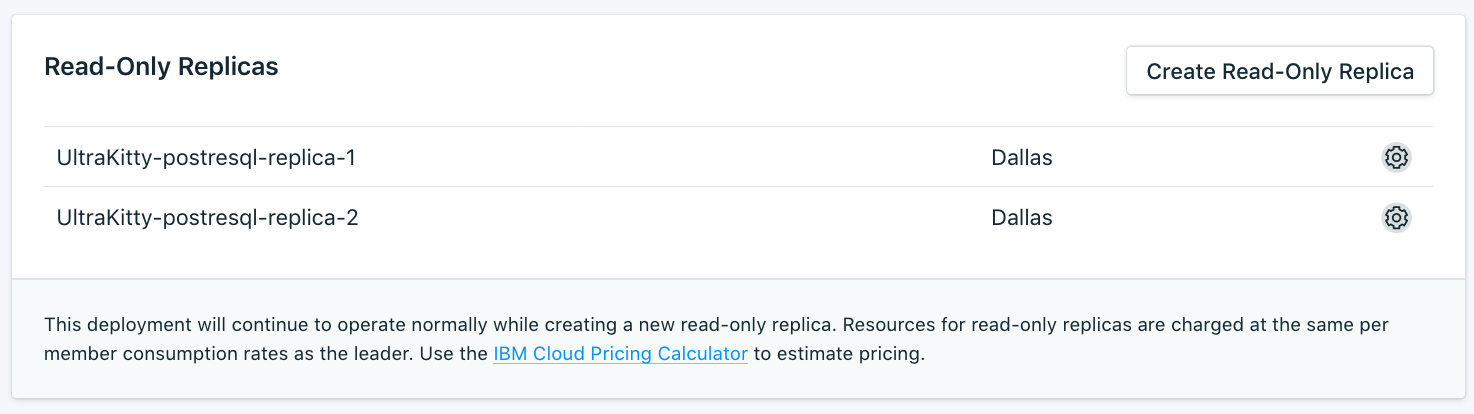
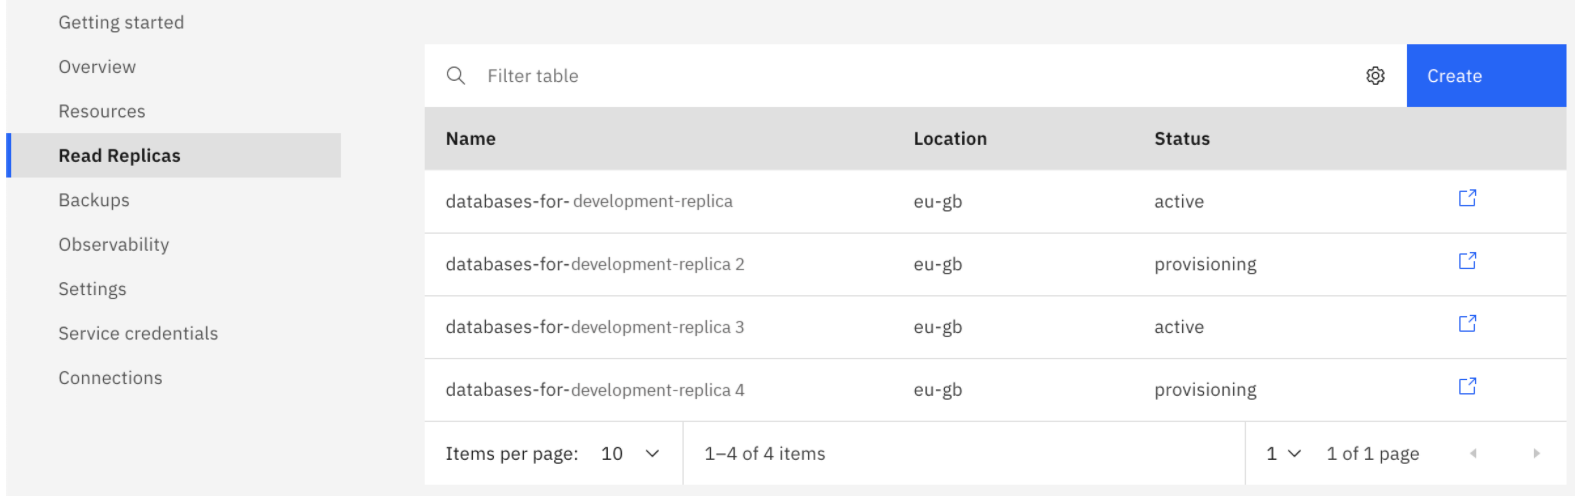
Settings UI updates

diff --git a/learn-dashboard-overview.md b/learn-dashboard-overview.md
@@ -1,8 +1,8 @@
 ---
 
 Copyright:
-  years: 2018, 2020
-lastupdated: "2020-04-23"
+  years: 2018, 2021
+lastupdated: "2021-02-04"
 
 keywords: deployment, crn, task, gui, api endpoint
 
@@ -20,78 +20,52 @@ subcollection: databases-for-postgresql
 # The UI - Dashboard Overview
 {: #dashboard-overview}
 
-The _Overview_ page shows you information about your {{site.data.keyword.databases-for-postgresql_full}} database. The overview includes essential identifying information.
-
-## Deployment Details
-
-The _Deployment Details_ panel shows details of your service.
-
+The _Overview_ page shows you information about your {{site.data.keyword.databases-for-postgresql_full}} deployment. The overview includes essential identifying information.
+## Overview
 ### Type
-
-The type of database that is offered by the service, and the database version that your service uses. In this case, it is `PostgreSQL`.
-
+The type of database that is offered by the service, and the database version that your service uses.
 ### ID
+The ID is a [CRN (Cloud Resource Name)](/docs/account?topic=account-crn) which uniquely identifies the database deployment. The CRN is used to refer to the database in the API and can be used with the CLI.The _Overview_ pane shows details of your service.
+### Recent Tasks
+Every time that you make administrative changes to your service (such as scaling, or taking a manual backup), a task starts up. The _Recent Tasks_ panel shows the task name and progress bar for any running tasks, and a list of the most recent completed tasks. Depending on how busy your deployment is, successful tasks can be shown for 24-48 hours. Unsuccessful tasks can show for 7-8 days. Tasks can also be retrieved from the [Cloud Databases API](https://cloud.ibm.com/apidocs/cloud-databases-api#get-currently-running-tasks-on-a-deployment) and [CLI plug-in](https://cloud.ibm.com/docs/databases-cli-plugin?topic=databases-cli-plugin-cdb-reference#deployment-tasks-list). A historical record of tasks from any time period is available through the [Activity Tracker integration](/docs/databases-for-postgresql?topic=cloud-databases-activity-tracker).
 
-The ID is a [CRN (Cloud Resource Name)](/docs/account?topic=account-crn) which uniquely identifies the database deployment. The CRN is used to refer to the database in the API and can be used with the CLI.
-
-## Recent Tasks
-
-Every time that you make administrative changes to your service (such as scaling, or taking a manual backup), a task starts up. The _Recent Tasks_ panel shows the task name and progress bar for any running tasks, and a list of the most recent completed tasks. Depending on how busy your deployment is, successful tasks can be shown for 24-48 hours. Unsuccessful tasks can show for 7-8 days. Tasks can also be retrieved from the [Cloud Databases API](https://cloud.ibm.com/apidocs/cloud-databases-api#get-currently-running-tasks-on-a-deployment) and [CLI plug-in](https://cloud.ibm.com/docs/databases-cli-plugin?topic=databases-cli-plugin-cdb-reference#deployment-tasks-list). A historical record of tasks from any time period is available through the [Activity Tracker integration](/docs/databases-for-mongodb?topic=cloud-databases-activity-tracker).
-
-## Connections
-
-The _Endpoints_ panel contains connection strings for your deployment. Each tab contains connection information tailored to the type of connection or the protocol that uses it. Basic information includes things like _hostname_ and _port_, as well as the TLS self-signed certificate, TLS/SSL parameters, and the default database of your deployment.
+### Endpoints
+The _Endpoints_ pane within the _Overview_ pane contains connection strings for your deployment. Each tab contains connection information tailored to the type of connection or the protocol that uses it. Basic information includes things like _hostname_ and _port_, as well as the TLS self-signed certificate, TLS/SSL parameters, and the default database of your deployment.
 
 Reference tables for the different connection types are available on the [Getting Credentials and Connection Strings](/docs/databases-for-postgresql?topic=databases-for-postgresql-connection-strings) page.
 
 Connection strings reflect whether your deployment uses public endpoints, private endpoints or both. You can configure which endpoints are available on your deployment. For more information, see the [Service Endpoints Integration](/docs/databases-for-postgresql?topic=cloud-databases-service-endpoints) page.
 
-## Security
-
-Encryption at rest is enabled for all {{site.data.keyword.databases-for-postgresql}} deployments. If you brought your own encryption key from [Key Protect](/docs/databases-for-postgresql?topic=cloud-databases-key-protect), the panel provides a link to your Key Protect instance and the _Encryption Key_ field has the name of the key.
-
-## Instance Administration API
-
-You can manage your {{site.data.keyword.databases-for-postgresql}} service through the {{site.data.keyword.cloud_notm}} databases API. This panel provides the essential information for using the API.
-
-### Foundation Endpoint
-
-The foundation endpoint is the opening stanza of the URL to be used to send API requests to. It combines the region that your service resides in and the base {{site.data.keyword.cloud_notm}} databases API endpoint. 
-
-### Deployment ID
-
-Many API calls require the ID of the database deployment. The database deployment's ID/CRN shown here is the same as the ID/CRN shown in the Deployment Details, in a click-to-copy field to make it simpler to use. The ID needs to be URL encoded to be used in an API call because the CRN includes a "/".
-
-### {{site.data.keyword.cloud_notm}} databases API Reference
-
-For more information about the {{site.data.keyword.cloud_notm}} databases API, see the [API reference](https://{DomainName}/apidocs/cloud-databases-api) page.
+You can manage your {{site.data.keyword.databases-for-postgresql}} service through the {{site.data.keyword.databases-for}} API. This panel provides the essential information for using the API. For more information about the {{site.data.keyword.databases-for}} API, see the [API reference](https://{DomainName}/apidocs/cloud-databases-api) page.
 
 ## Resources
-
 The resources tab contains information and configuration options on the size and resource usage of your deployment. You can 
 - [Scale disk, memory, and CPU](/docs/databases-for-postgresql?topic=databases-for-postgresql-resources-scaling)
 - [Configure Autoscaling](/docs/databases-for-postgresql?topic=databases-for-postgresql-autoscaling)
 
+## Read Replicas
+The _Read Replicas_ tab contains the UI for details regarding the read replicas for your deployment. Updates to replication leaders are asynchronously copied to their read-only replicas. You can 
+- [create and manage read-replicas](/docs/databases-for-postgresql?topic=databases-for-postgresql-read-only-replicas)
+
 ## Backups
-
-The _Backups_ tab is the UI for managing your deployments backups. All of the available backups are listed with their timestamps. Click on a backup to grab its ID or to restore it into a new deployment. More information is on the [Managing Backups](/docs/databases-for-postgresql?topic=cloud-databases-dashboard-backups) page.
-
-## Settings
-
-The _Settings_ tab contains the UI for many of the tunable settings for your deployment. You can 
-- [manage read-replicas](/docs/databases-for-postgresql?topic=databases-for-postgresql-read-only-replicas)
-- [configure public and private endpoints](/docs/databases-for-postgresql?topic=cloud-databases-service-endpoints)
-- [change the admin password](/docs/databases-for-postgresql?topic=databases-for-postgresql-admin-password)
-- [implement or modify an IP allowlist](/docs/databases-for-postgresql?topic=cloud-databases-allowlisting)
-- [kill all connections](/docs/databases-for-postgresql?topic=databases-for-postgresql-managing-connections) (active, idle, and zombie) to your PostgreSQL database.
+The _Backups_ tab is the UI for managing your deployments backups. All of the available backups are listed with their timestamps. Click a backup to grab its ID or to restore it into a new deployment. More information is on the [Managing Backups](/docs/databases-for-postgresql?topic=cloud-databases-dashboard-backups) page.
 
 ## Observability
-
 The _Observability_ tab provides access to the IBM Cloud monitoring, logging, and event tracking integrations available for your deployment. 
 - [Activity Tracker](/docs/databases-for-postgresql?topic=cloud-databases-activity-tracker)
 - [Logging](/docs/databases-for-postgresql?topic=cloud-databases-logging)
 - [Monitoring](/docs/databases-for-postgresql?topic=databases-for-postgresql-sysdig-monitoring)
+## Settings
+The _Settings_ tab contains the UI for many of the tunable settings for your deployment. You can 
+- view encryption details. Encryption at rest is enabled for all {{site.data.keyword.databases-for-postgresql}} deployments. If you brought your own encryption key from [Key Protect](/docs/databases-for-postgresql?topic=cloud-databases-key-protect), the panel provides a link to your Key Protect instance and the _Encryption Key_ field has the name of the key.
+- [Change the admin password](/docs/databases-for-postgresql?topic=databases-for-postgresql-admin-password)
+- [Implement or modify an IP allowlist](/docs/databases-for-postgresql?topic=cloud-databases-allowlisting)
 
-## Docs
+## Service Credentials
+You can generate a new set of credentials for cases where you want to manually [connect an app](/docs/databases-for-postgresql?topic=databases-for-postgresql-ibmcloud-app) or [external consumer](/docs/databases-for-postgresql?topic=databases-for-postgresql-external-app) to an IBM Cloud service. [Learn more](/docs/account?topic=account-service_credentials).
 
-The _Docs_ link opens the main documentation page for {{site.data.keyword.databases-for-postgresql}} in a new tab.
+## Connections
+Shows connected resources. You can use the `Create connection` button to to bind this service to another resource.
+
+## View docs
+The _View docs_ link from the `Actions` drop list opens the main documentation page for {{site.data.keyword.databases-for-postgresql}} in a new tab.

diff --git a/howto-read-replica.md b/howto-read-replica.md
@@ -1,8 +1,8 @@
 ---
 
 Copyright:
-  years: 2019, 2020
-lastupdated: "2020-05-19"
+  years: 2019, 2021
+lastupdated: "2021-02-04"
 
 keywords: postgresql, databases, read-only replica, resync, promote, cross-region replication
 
@@ -48,7 +48,7 @@ A read-only replica is set up to replicate all of your data from the leader depl
 
 ## The Leader
 
-On the _Settings_ tab of a {{site.data.keyword.databases-for-postgresql}} deployment before any read-only replicas are provisioned, the _Replication_ pane has a **Create Read Replica** button.
+On the _Read Replicas_ tab of a {{site.data.keyword.databases-for-postgresql}} deployment before any read-only replicas are provisioned, the center pane notes that no read replicas exist and provides a **Create** button.
 
 ![Replication pane before a replica](images/replica-before.png)
 
@@ -58,7 +58,7 @@ If a deployment is a leader and has a read-only replica that is already attached
 
 ## Provisioning a Read-only Replica
 
-You can provision a read-only replica from the leader's _Settings_ pane by clicking **Create Read-Only Replica**. The source instance is automatically filled in. The read-only replica's name is auto-generated in the _Service Name_ field, but you can rename it freely. You can choose the region to deploy it in, and its initial memory allocation. Disk size, version, and public or private endpoints are automatically configured to match the settings of the leader deployment.
+You can provision a read-only replica from the leader's _Read Replicas_ tab by clicking **Create Read-Only Replica**. The source instance is automatically filled in. The read-only replica's name is auto-generated in the _Service Name_ field, but you can rename it freely. You can choose the region to deploy it in, and its initial memory allocation. Disk size, version, and public or private endpoints are automatically configured to match the settings of the leader deployment.
 
 If you use [Key Protect](/docs/databases-for-postgresql?topic=cloud-databases-key-protect), Bring Your Own Key (BYOK) is supported only when provisioning from the CLI and API. Otherwise, the read-only replica is encrypted with a generated key. 
 {: .tip}
@@ -100,7 +100,7 @@ For both the CLI and API commands, you must specify both the RAM and disk amount
 
 ## The Read-only Replica
 
-On the _Settings_ tab of a read-only replica, the _Replication_ pane contains its name and region, and the name and region of its leader. It also has buttons to resync the read-only replica and to promote it.
+On the _Read Replicas_ tab of a read-only replica, the _Replication_ pane contains its name and region, and the name and region of its leader. It also has buttons to resync the read-only replica and to promote it.
 
 ![Replication pane of a read-only replica](images/replica-roreplica.png)
 

diff --git a/howto-managing-connections.md b/howto-managing-connections.md
@@ -80,21 +80,20 @@ If you are on PostgreSQL 9.6 and above, your admin user has the `pg_signal_backe
 
 The admin user does have the power to reset or close the connections for any user on the deployment except superusers. Be careful not to terminate replication connections from the `ibm-replication` user, as it interferes with the high-availability of your deployment.
 
-### Killing All Connections
+### End Connections
 
-If your deployment has reached the connection limit or you are having trouble connecting to your deployment and suspect that a high number of connections is a problem, you can kill all of the connections to your deployment. 
+If your deployment reaches the connection limit or you are having trouble connecting to your deployment and suspect that a high number of connections is a problem, you can disconnect (or end) all of the connections to your deployment. 
 
-In the UI, on the _Settings_ tab, there is a button to kill all connections to your deployment. Use caution, as it will disrupt anything that is connected to your deployment.
+In the UI, on the _Settings_ tab, there is a button to `End Connections` to your deployment. Use caution, as it disrupts anything that is connected to your deployment.
 
-![Kill All Connections UI](images/settings-kill-connections.png)
+![End Connections UI](images/settings-end-connections.png)
 
-The CLI command to kill connections to the deployment is 
+The CLI command to end connections to the deployment is 
 ```
 ibmcloud cdb deployment-kill-connections <deployment name or CRN>
 ```
-{: pre}
 
-You can also use the [{{site.data.keyword.databases-for}} API](https://cloud.ibm.com/apidocs/cloud-databases-api#kill-connections-to-a-postgresql-deployment) to perform the kill all connections operation.
+You can also use the [{{site.data.keyword.databases-for}} API](https://cloud.ibm.com/apidocs/cloud-databases-api#kill-connections-to-a-postgresql-deployment) to perform the end all connections operation.
 
 ## Connection Pooling
 

diff --git a/connecting-external.md b/connecting-external.md
@@ -1,7 +1,7 @@
 ---
 copyright:
-  years: 2017,2020
-lastupdated: "2020-04-09"
+  years: 2017,2021
+lastupdated: "2021-02-11"
 
 keywords: postgresql drivers, python, java, javascript, certificate
 
@@ -13,7 +13,6 @@ subcollection: databases-for-postgresql
 {:shortdesc: .shortdesc}
 {:screen: .screen}
 {:codeblock: .codeblock}
-{:generic: .ph data-hd-programlang='generic'}
 {:java: .ph data-hd-programlang='java'}
 {:python: .ph data-hd-programlang='python'}
 {:javascript: .ph data-hd-programlang='javascript'}
@@ -54,6 +53,11 @@ postgres://ibm_cloud_30399dec_4835_4967_a23d_30587a08d9a8:$PASSWORD@981ac415-5a3
 {: .codeblock}
 
 This example uses the information from your connection string and the Java driver [`jdbc`](https://jdbc.postgresql.org/documentation/head/index.html) to connect to your database.
+
+This example uses the information from your connection string and the Python driver [`Psycopg2`](https://wiki.postgresql.org/wiki/Psycopg2_Tutorial) to connect to your database. This is just a simple connection example, without error handling or retry logic and may not be suitable for production.
+
+This example uses the information from your connection string and the Node driver [`node-postgres`](https://node-postgres.com/) to connect to your database.
+
 
 ```java
 import java.sql.Connection;
@@ -115,9 +119,6 @@ public class PGConnect {
 ```
 {: .codeblock}
 
-
-This example uses the information from your connection string and the Python driver [`Psycopg2`](https://wiki.postgresql.org/wiki/Psycopg2_Tutorial) to connect to your database. This is just a simple connection example, without error handling or retry logic and may not be suitable for production.
-
 ```python
 import psycopg2
 
@@ -142,8 +143,6 @@ for row in rows:
     print("  ",row[0])
 ```
 {: .codeblock}
-
-This example uses the information from your connection string and the Node driver [`node-postgres`](https://node-postgres.com/) to connect to your database.
 
 ```java
 const pg = require("pg");

diff --git a/howto-pitr.md b/howto-pitr.md
@@ -1,8 +1,8 @@
 ---
 
 copyright:
-  years: 2019, 2020
-lastupdated: "2020-02-26"
+  years: 2019, 2021
+lastupdated: "2021-02-11"
 
 keywords: postgresql, databases, point in time recovery, backups, restore
 
@@ -46,6 +46,8 @@ To discover the earliest recovery point through the API, use the [`/deployments/
 Backups are restored to a new deployment. After the new deployment finishes provisioning, your data in the backup file is restored into the new deployment.
 
 By default the new deployment is auto-sized to the same disk and memory allocation as the source deployment at the time of the backup you are restoring from. Especially in the case of PITR, that might not be the current size of your deployment. If you need to adjust the resources allocated to the new deployment, use the optional fields in the UI, CLI, or API to resize the new deployment. Be sure to allocate enough for your data and workload, if the deployment is not given enough resources the restore will fail.
+
+While storage and memory are restored to the same as the source deployment, specific instance configurations are not automatically set for the new instance. In this case, rerunning the configuration after a restore might be needed. Any instance modifications should be noted before running the restore (parameters like shared_buffers, max_connections, deadlock_timeout, archive_timeout, and others) to ensure accurate setting for the instance after the restore is complete.
 
 It is very important that you do not delete the source deployment while the backup is restoring. You must wait until the new deployment is provisioned and the backup is restored before deleting the old deployment. Deleting a deployment also deletes its backups so not only will the restore fail, you may not be able to recover the backup either.
 {: .tip}

diff --git a/howto-horizontal-scaling.md b/howto-horizontal-scaling.md
@@ -2,7 +2,7 @@
 
 Copyright:
   years: 2020, 2021
-lastupdated: "2020-01-11"
+lastupdated: "2021-02-04"
 
 keywords: databases, scaling, horizontal scaling, postgresql
 
@@ -26,9 +26,9 @@ It is possible to scale your {{site.data.keyword.databases-for-postgresql_full}}
 Horizontal scaling can only increase disk and memory allotments. Members cannot be scaled down. 
 {: .note}
 
-Members that you add to your deployment are added with the amount of disk, memory, and CPU as the other members currently in your deployment. A visual representation of your data members and their resource allocation is available on the _Settings_ tab of your deployment's _Manage_ page. However, horizontal scaling is only available by using the API.
+Members that you add to your deployment are added with the amount of disk, memory, and CPU as the other members currently in your deployment. A visual representation of your data members and their resource allocation is available on the _Resources_ tab of your deployment's _Manage_ page. However, horizontal scaling is only available by using the API.
 
-![The Scale Resources Pane in _Settings_](images/settings-scaling.png)
+![The Scale Resources Pane in _Resources_](images/settings-scaling.png)
 
 {{site.data.keyword.databases-for-postgresql}} deployments have two data members in a cluster, and resources are allocated to both members equally. For example, the minimum storage of a PostgreSQL deployment is 10240 MB, which equates to an initial size of 5120 MB per member. The minimum RAM for a PostgreSQL deployment is 2048 MB, which equates to an initial allocation of 1028 MB per member.
 

diff --git a/howto-admin-password.md b/howto-admin-password.md
@@ -1,7 +1,7 @@
 ---
 copyright:
-  years: 2017,2019
-lastupdated: "2019-05-03"
+  years: 2017,2021
+lastupdated: "2021-02-04"
 
 keywords: postgresql, databases
 
@@ -21,9 +21,9 @@ subcollection: databases-for-postgresql
 
 The {{site.data.keyword.databases-for-postgresql_full}} service is provisioned with an admin user, so you can manage PostgreSQL by using its command line tool, `psql`.
 
-You have to set the admin password before you can use it to connect. To set the password through the {{site.data.keyword.cloud_notm}} dashboard, select _Manage_ from the service dashboard to open the management panel for your service. Open the _Settings_ tab, and use the _Change Password_ panel to set a new admin password.
+You have to set the admin password before you can use it to connect. To set the password through the {{site.data.keyword.cloud_notm}} dashboard, select _Manage_ from the service dashboard to open the management panel for your service. Open the _Settings_ tab, and use the _Change Database Admin Password_ pane to set a new admin password.
 
-![The Admin Password Panel in _Settings_](images/settings-admin-password.png)
+![The Change Database Admin Password pane in _Settings_](images/settings-admin-password.png)
 
 ## Setting the admin password via the command line
 

diff --git a/howto-migration-compose.md b/howto-migration-compose.md
@@ -1,7 +1,7 @@
 ---
 copyright:
-  years: 2019
-lastupdated: "2019-11-12"
+  years: 2019, 2021
+lastupdated: "2021-02-04"
 
 keywords: postgresql, databases, compose
 
@@ -187,7 +187,7 @@ It is important promote the replica to a full {{site.data.keyword.databases-for-
 
 To get the {{site.data.keyword.databases-for-postgresql}} deployment up and minimize your downtime, check the **Skip Initial Backup** option, which makes the deployment available more quickly. You can start an on-demand backup after promotion is finished.
 
-You can either perform the promotion by using the UI of your deployment, the promotion button is on the _Settings_ tab, in the _Replication_ section.
+You can either perform the promotion by using the UI of your deployment, the promotion button is on the _Read Replicas_ tab, in the _Promote Read-Only Replica_ section.
 
 If you want to stick with using the CLI, you can use the [`ibmcloud cdb read-replica-promote`](https://cloud.ibm.com/docs/databases-cli-plugin?topic=databases-cli-plugin-cdb-reference#read-replica-promote) command. 
 ```

diff --git a/howto-resources-scaling.md b/howto-resources-scaling.md
@@ -1,8 +1,8 @@
 ---
 
 Copyright:
-  years: 2019, 2020
-lastupdated: "2020-01-27"
+  years: 2019, 2021
+lastupdated: "2021-02-04"
 
 keywords: postgresql, databases, scaling, memory, disk IOPS, CPU
 
@@ -68,7 +68,7 @@ You can enable or increase the CPU allocation to the deployment. With dedicated 
 
 A visual representation of your data members and their resource allocation is available on the _Resources_ tab of your deployment's _Manage_ page. 
 
-![The Scale Resources Panel in _Settings_](images/settings-scaling.png)
+![The Scale Resources Panel in _Resources_](images/settings-scaling.png)
 
 Adjust the slider to increase or decrease the resources that are allocated to your service. The slider controls how much memory or disk is allocated per member. The UI shows the total allocated memory or disk for the position of the slider. Click **Scale** to trigger the scaling operations and return to the dashboard overview. 
 
